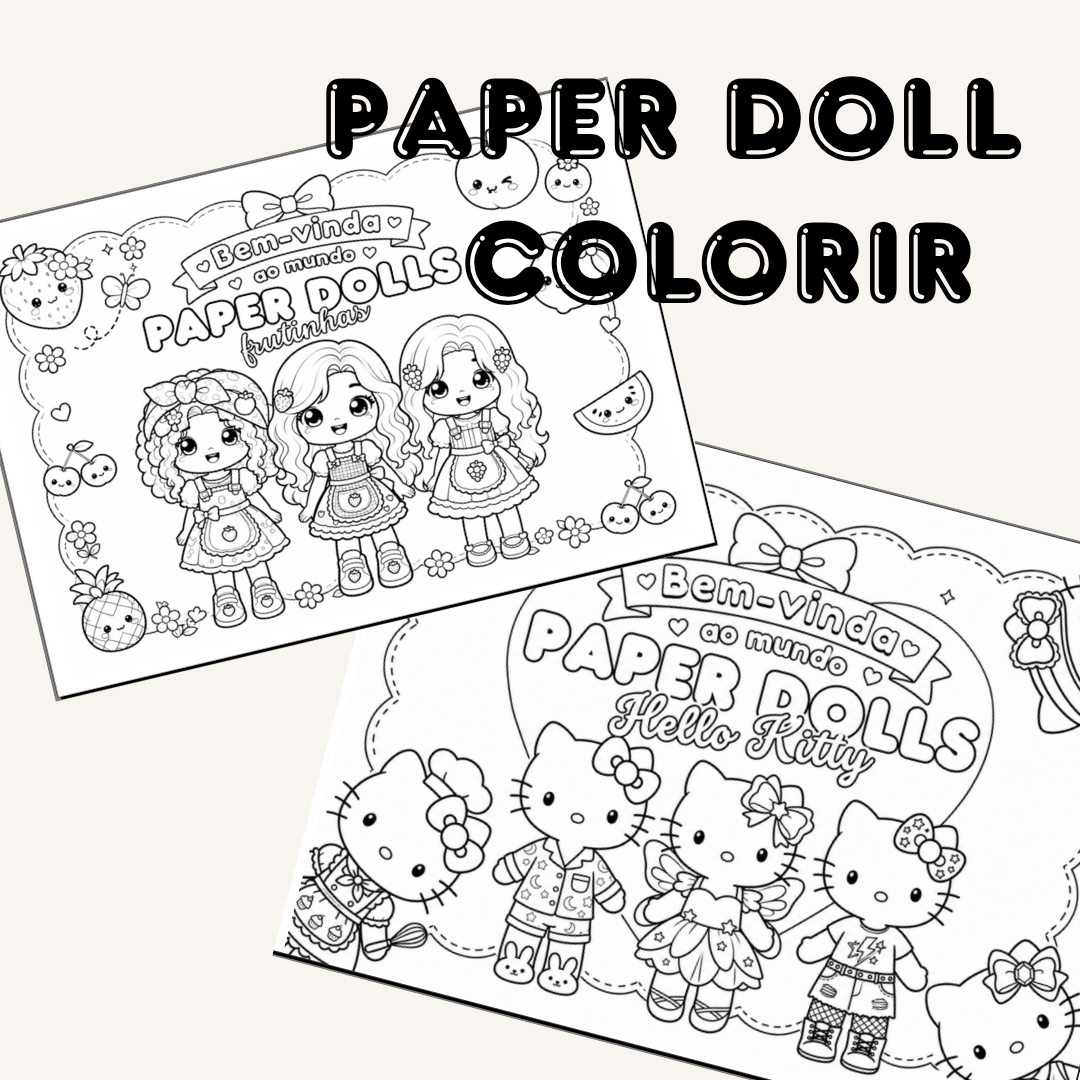
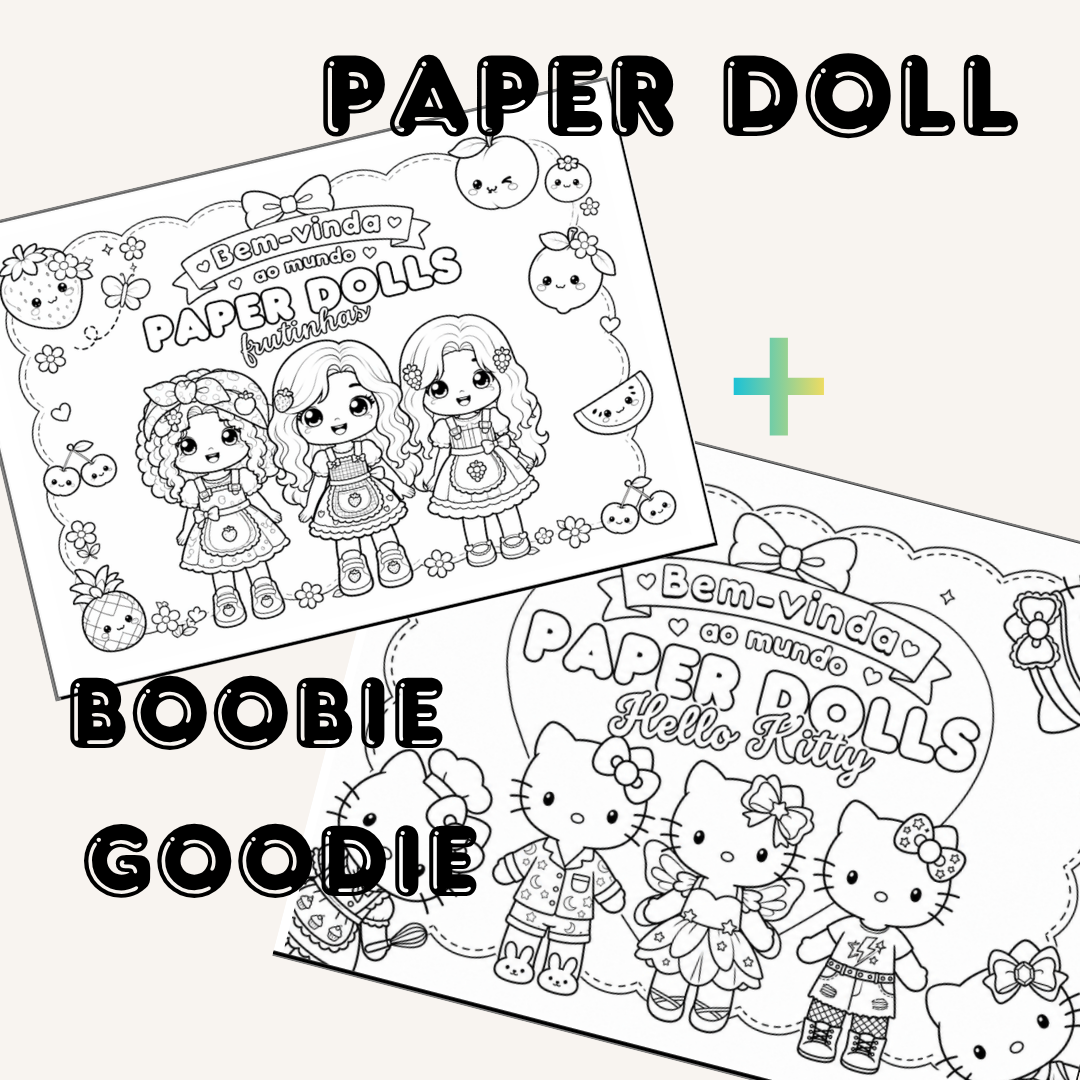
galeria9

diff --git a/src/data/categorias.js b/src/data/categorias.js
@@ -1306,7 +1306,7 @@ export const categorias = [
                 mostrarTemas: true,
               preco: "A partir de R$ 5,00",
               descricao: "Kit, de ilustrações para Pintar, Cortar e Colar, ideal para momentos de lazer durante as férias.",
-              imagem: "https://raw.githubusercontent.com/desingessatelie-hue/meu-site/main/imagens/datas_com/Ferias/Kit_PaperDolls_colorido/Capa_01.png",
+              imagem: "https://raw.githubusercontent.com/desingessatelie-hue/meu-site/main/imagens/datas_com/Ferias/Kit_PaperDolls_PB/54.png",
               colecao: "Férias Escolares",
               composicao: "Kit com ilustrações para Pintar, Cortar e Colar, 2 cenários e seus elementos e 2 bonecas com suas roupinhas, ideal para momentos de lazer durante as férias.",
               temasBibliotecas: [
@@ -1429,9 +1429,11 @@ export const categorias = [
                 }
               ]
             },
-            {
-              nome: "5 Kit Paper dolls, A5 - Meninos",
-              tipo: "Livro de Colorir",
+
+
+  {
+              nome: "6 Kit Paper dolls, Meninos",
+              tipo: "Livro Cortar e colar",
               mostrarTemas: true,
               preco: "A partir de R$ 5,00",
               descricao: "Kit com ilustrações para cortar e colar, com temas de aventura para meninos.",
@@ -1558,7 +1560,138 @@ export const categorias = [
                 }
               ]
             },
-            
+
+
+            {
+              nome: "8 Kit Paper dolls + Boobie Goodies, Meninos",
+              tipo: "Livro de Colorir",
+              mostrarTemas: true,
+              preco: "A partir de R$ 5,00",
+              descricao: "Kit com ilustrações para cortar e colar, com temas de aventura para meninos.",
+              imagem: "https://raw.githubusercontent.com/desingessatelie-hue/meu-site/main/imagens/datas_com/Ferias/Kit_PaperDolls_PB/64.png",
+              colecao: "Férias Escolares",
+              composicao: "Kit com ilustrações para cortar e colar, 2 cenários e seus elementos com personagens e acessórios.",
+              temasBibliotecas: [
+                {
+                  nome: "MeninosPB - Futebol",
+                  temasBiblioteca: [
+                {
+                  tema: "Futebol - Vestiario",
+                  informacoesImportantes: "Tema com cenário de vestiário e acessórios de treino.",
+                  imagens: [
+                    "https://raw.githubusercontent.com/desingessatelie-hue/meu-site/main/imagens/datas_com/Ferias/Kit_PaperDolls_PB/1-PB_futebol.png"
+                  ]
+                },
+                                {
+                  tema: "Futebol - Treino",
+                  informacoesImportantes: "Tema com cenário de treino e acessórios de treino.",
+                  imagens: [
+                    "https://raw.githubusercontent.com/desingessatelie-hue/meu-site/main/imagens/datas_com/Ferias/Kit_PaperDolls_PB/2-PB_futebol.png"
+                  ]
+                },
+                {
+                  tema: "Futebol - Campinho",
+                  informacoesImportantes: "Tema com campo de futebol e personagens para montar.",
+                  imagens: [
+                    "https://raw.githubusercontent.com/desingessatelie-hue/meu-site/main/imagens/datas_com/Ferias/Kit_PaperDolls_PB/3-PB_futebol.png"
+                  ]
+                },
+                {
+                  tema: "Futebol - Concentração",
+                  informacoesImportantes: "Tema com cenário de concentração e acessórios de treino.",
+                  imagens: [
+                    "https://raw.githubusercontent.com/desingessatelie-hue/meu-site/main/imagens/datas_com/Ferias/Kit_PaperDolls_PB/4-PB_futebol.png"
+                  ]
+                },
+                {
+                  tema: "Futebol - Placar",
+                  informacoesImportantes: "Tema com cenário de placar e torcida.",
+                  imagens: [
+                    "https://raw.githubusercontent.com/desingessatelie-hue/meu-site/main/imagens/datas_com/Ferias/Kit_PaperDolls_PB/5-PB_futebol.png"
+                  ]
+                },
+                {
+                  tema: "Futebol - Escolinha",
+                  informacoesImportantes: "Tema com cenário de escolinha de futebol e acessórios.",
+                  imagens: [
+                    "https://raw.githubusercontent.com/desingessatelie-hue/meu-site/main/imagens/datas_com/Ferias/Kit_PaperDolls_PB/6-PB_futebol.png"
+                  ]
+
+                },
+                {
+                  tema: "Futebol - Podium",
+                  informacoesImportantes: "Tema final com celebração e pódio.",
+                  imagens: [
+                    "https://raw.githubusercontent.com/desingessatelie-hue/meu-site/main/imagens/datas_com/Ferias/Kit_PaperDolls_PB/7-PB_futebol.png"
+                  ]
+                }
+                  ]
+                },
+                {
+                  nome: "MeninosPB - Roblox",
+                  temasBiblioteca: [
+                {
+                  tema: "Roblox - Paisagem",
+                  informacoesImportantes: "Cenário de paisagem com elementos do jogo Roblox.",
+                  imagens: [
+                    "https://raw.githubusercontent.com/desingessatelie-hue/meu-site/main/imagens/datas_com/Ferias/Kit_PaperDolls_PB/1-PB_roblox.png"
+                  ]
+                },
+                
+                {
+                  tema: "Roblox - Portal",
+                  informacoesImportantes: "Cenário de portal com visual de aventura.",
+                  imagens: [
+                    "https://raw.githubusercontent.com/desingessatelie-hue/meu-site/main/imagens/datas_com/Ferias/Kit_PaperDolls_PB/2-PB_roblox.png"
+                  ]
+                },
+                {
+                  tema: "Roblox - Ilhas",
+                  informacoesImportantes: "Cenário de aventura com desafios e obstáculos.",
+                  imagens: [
+                    "https://raw.githubusercontent.com/desingessatelie-hue/meu-site/main/imagens/datas_com/Ferias/Kit_PaperDolls_PB/3-PB_roblox.png"
+                  ]
+                },
+                {
+                  tema: "Roblox - Arena",
+                  informacoesImportantes: "Cenário de arena para batalhas e desafios.",
+                  imagens: [
+                    "https://raw.githubusercontent.com/desingessatelie-hue/meu-site/main/imagens/datas_com/Ferias/Kit_PaperDolls_PB/4-PB_roblox.png"
+                  ]
+                },
+                {
+                  tema: "Roblox - Quarto",
+                  informacoesImportantes: "Cenário de quarto com decoração temática.",
+                  imagens: [
+                    "https://raw.githubusercontent.com/desingessatelie-hue/meu-site/main/imagens/datas_com/Ferias/Kit_PaperDolls_PB/5-PB_roblox.png"
+                  ]
+                },
+                 {
+                  tema: "Roblox - Castelo",
+                  informacoesImportantes: "Cenário de castelo para montar com os personagens.",
+                  imagens: [
+                    "https://raw.githubusercontent.com/desingessatelie-hue/meu-site/main/imagens/datas_com/Ferias/Kit_PaperDolls_PB/6-PB_roblox.png"
+                  ]
+                },
+                {
+                  tema: "Roblox - Arena II",
+                  informacoesImportantes: "Cenário de arena avançada com desafios complexos.",
+                  imagens: [
+                    "https://raw.githubusercontent.com/desingessatelie-hue/meu-site/main/imagens/datas_com/Ferias/Kit_PaperDolls_PB/7-PB_roblox.png"
+                  ]
+                },
+                {
+                  tema: "Roblox - Arena III",
+                  informacoesImportantes: "Cenário de arena avançada com desafios complexos.",
+                  imagens: [
+                    "https://raw.githubusercontent.com/desingessatelie-hue/meu-site/main/imagens/datas_com/Ferias/Kit_PaperDolls_PB/8-PB_roblox.png"
+                  ]
+                }
+                  ]
+                }
+              ]
+            },
+           
           ]
         },
         {
